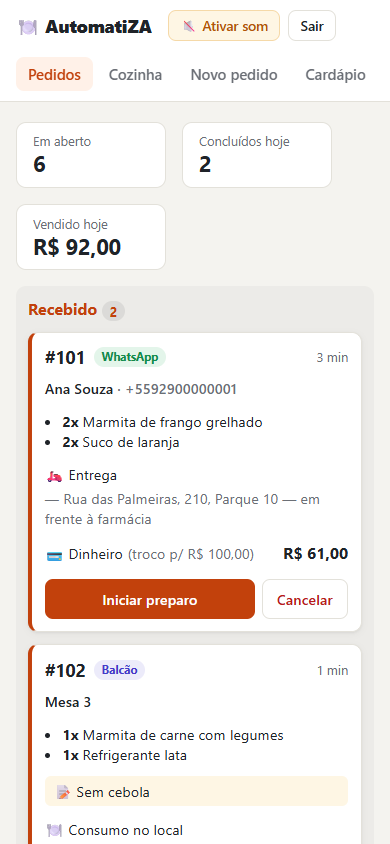
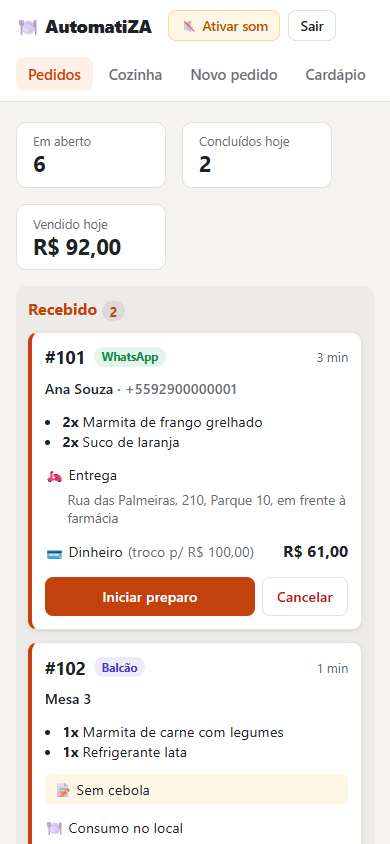
Hífen nas listas de preços do bot e endereço em linha própria no painel
- Cardápio e itens do pedido no WhatsApp: "Marmita - R$ 22,00"
- Cartão do pedido: endereço de entrega abaixo do tipo, sem separador
  (antes a quebra de linha deixava ": Rua..." no começo da linha)
- Capturas de tela do README atualizadas

Changed region(s): [[0.0615, 0.5853, 0.9231, 1.0], [0.5538, 0.6469, 0.6462, 0.6777], [0.0923, 0.8626, 0.1231, 0.8934]]

diff --git a/server/whatsapp/formatacao.js b/server/whatsapp/formatacao.js
@@ -11,7 +11,7 @@ function formatarCardapio(restaurante, produtos) {
   let texto = `🍽 *Cardápio - ${restaurante.nome}*\n\n`;
   produtos.forEach((produto, i) => {
     const emoji = emojisNumero[i] || `${i + 1}.`;
-    texto += `${emoji} ${produto.nome}: ${formatarPreco(produto.preco_centavos)}\n`;
+    texto += `${emoji} ${produto.nome} - ${formatarPreco(produto.preco_centavos)}\n`;
     if (produto.descricao) texto += `      _${produto.descricao}_\n`;
   });
   texto += '\nDigite os números dos itens que deseja (ex: *1, 4*).';
@@ -22,12 +22,12 @@ function formatarCardapio(restaurante, produtos) {
 
 // Linhas de itens de um pedido já montado: [{ nome, quantidade, preco_unitario_centavos }]
 function formatarItens(itens) {
-  return itens.map((i) => `• ${i.quantidade}x ${i.nome}: ${formatarPreco(i.preco_unitario_centavos * i.quantidade)}`).join('\n');
+  return itens.map((i) => `• ${i.quantidade}x ${i.nome} - ${formatarPreco(i.preco_unitario_centavos * i.quantidade)}`).join('\n');
 }
 
 function formatarValores({ itens, tipo, taxa_entrega_centavos: taxa, total_centavos: total }) {
   let texto = formatarItens(itens);
-  if (tipo === 'entrega' && taxa > 0) texto += `\n• Taxa de entrega: ${formatarPreco(taxa)}`;
+  if (tipo === 'entrega' && taxa > 0) texto += `\n• Taxa de entrega - ${formatarPreco(taxa)}`;
   return `${texto}\n\n*Total: ${formatarPreco(total)}*`;
 }
 

diff --git a/web/src/componentes/CartaoPedido.jsx b/web/src/componentes/CartaoPedido.jsx
@@ -35,8 +35,8 @@ export default function CartaoPedido({ pedido, agora, aoMudarStatus }) {
 
       <p className="pedido-linha">
         {pedido.tipo === 'entrega' ? '🛵' : pedido.tipo === 'local' ? '🍽' : '🏠'} {NOMES_TIPO[pedido.tipo]}
-        {pedido.endereco && <span className="suave">: {pedido.endereco}</span>}
       </p>
+      {pedido.endereco && <p className="pedido-endereco suave">{pedido.endereco}</p>}
       <p className="pedido-linha">
         💳 {NOMES_PAGAMENTO[pedido.forma_pagamento]}
         {pedido.troco_para_centavos && <span className="suave"> (troco p/ {formatarPreco(pedido.troco_para_centavos)})</span>}

diff --git a/web/src/estilos.css b/web/src/estilos.css
@@ -113,6 +113,7 @@ label small { font-weight: 400; }
 .pedido-itens { margin: .2rem 0; padding-left: 1.1rem; }
 .pedido-obs { background: var(--alerta-clara); padding: .3rem .5rem; border-radius: 6px; }
 .pedido-linha { display: flex; align-items: baseline; gap: .3rem; flex-wrap: wrap; }
+.pedido-endereco { margin-top: -.2rem; padding-left: 1.4rem; font-size: .85rem; }
 .pedido-total { margin-left: auto; font-size: 1rem; }
 .pedido-acoes { display: flex; gap: .4rem; margin-top: .4rem; flex-wrap: wrap; }
 .pedido-acoes .botao.primario { flex: 1; }
